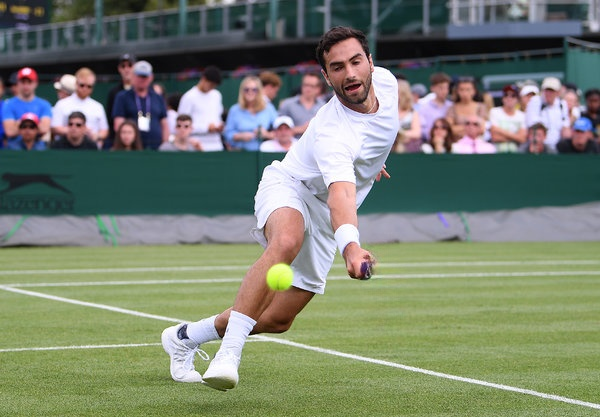
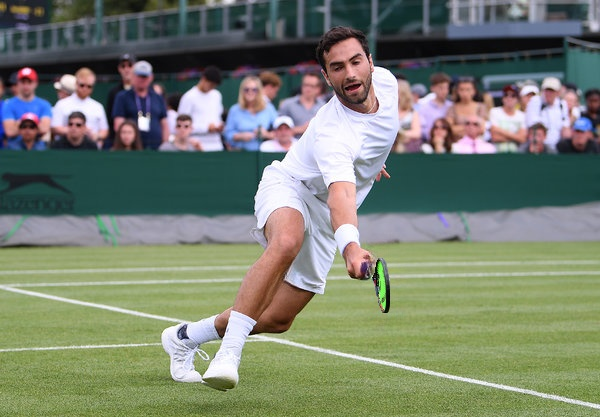
resize_fin

Changed region(s): [[0.6, 0.6235, 0.66, 0.7482], [0.42, 0.6235, 0.51, 0.717]]

diff --git a/resize.py b/resize.py
@@ -53,6 +53,39 @@ def get_obj(img,coords,args):
     rgba_image[:, :, 3] = masks[1]
 
     return rgba_image,masks
+def resize_and_mask_object(img, box, coords_bg,scale_factor, args):
+
+    x1,y1,x2,y2 = map(int,box.xyxy[0].cpu().numpy())
+    cropped_object = img[y1:y2, x1:x2]
+
+
+
+    cropped_masks = get_mask(img, coords_bg, args)
+
+
+    new_width = int(img.shape[1] * scale_factor)
+    new_height = int(img.shape[0] * scale_factor)
+    new_obj_w = int(cropped_object.shape[1] * scale_factor)
+    new_obj_h = int(cropped_object.shape[0] * scale_factor)
+    resized_img = cv2.resize(img, (new_width, new_height), interpolation=cv2.INTER_CUBIC)
+    resized_img_mask = cv2.resize(cropped_masks[1], (new_width, new_height), interpolation=cv2.INTER_NEAREST)
+
+
+    scaled_x1 = int(x1 * scale_factor)
+    scaled_y1 = int(y1 * scale_factor)
+    scaled_x2 = int(x2 * scale_factor)
+    scaled_y2 = int(y2 * scale_factor)
+
+
+    resized_object = resized_img[scaled_y1:scaled_y2, scaled_x1:scaled_x2]
+    resized_object_mask = resized_img_mask[scaled_y1:scaled_y2, scaled_x1:scaled_x2]
+
+
+    rgba_object = np.zeros((resized_object.shape[0], resized_object.shape[1], 4), dtype=np.uint8)
+    rgba_object[:, :, :3] = resized_object  # RGB通道
+    rgba_object[:, :, 3] = resized_object_mask  # Alpha通道
+
+    return rgba_object, resized_object_mask
 def resize_img(img,args):
 
     # Load the image
@@ -69,22 +102,16 @@ def resize_img(img,args):
             if label_name == "person":
                 continue
             x1,y1,x2,y2 = map(int,box.xyxy[0].cpu().numpy())
-            
-            scale_factor = np.random.choice([3,0.3])
-            cropped_object = img[y1:y2, x1:x2]
-            new_width = int(cropped_object.shape[1] * scale_factor)
-            new_height = int(cropped_object.shape[0] * scale_factor)
-            resized_object = cv2.resize(cropped_object, (new_width, new_height), interpolation=cv2.INTER_CUBIC)
+            scale_factor = np.random.choice([3,0.6])
             # 计算中心点cropped_object的中心点
             center_x_bg = int((x1+x2)/2)
             center_y_bg = int((y1+y2)/2)
-            center_x = int((resized_object.shape[0] // 2))
-            center_y = int((resized_object.shape[1]// 2))
-            coords = (center_x, center_y)
             coords_bg = (center_x_bg,center_y_bg)
-            rgba_object,masks_obj = get_obj(resized_object,coords,args)
+            # rgba_object,masks_obj = get_obj(resized_object,coords,args)
+            rgba_object,masks_obj = resize_and_mask_object(img,box,coords_bg,scale_factor,args)
 
-            cv2.imwrite("./resize_tmp/mask_obj.jpg",masks_obj[1])
+
+            cv2.imwrite("./resize_tmp/mask_obj.jpg",masks_obj)
             rgba_obj = Image.fromarray(rgba_object,mode= "RGBA")
             rgba_obj.save("./resize_tmp/rgba_obj.png")
             masks = get_mask(img,coords_bg,args)
@@ -95,14 +122,14 @@ def resize_img(img,args):
                 masks = [dilate_mask(mask, args.dilate_kernel_size) for mask in masks]
             img_inpainted = inpaint_img_with_lama(
             img, masks[1], args.lama_config, args.lama_ckpt, device=device)
-            # 将rgba_object粘贴到img_inpainted的指定位置
+
             img = img_inpainted
             cv2.imwrite("./resize_tmp/img_inpat.jpg",img)
             bg = Image.fromarray(img,mode="RGB")
             fg = Image.fromarray(rgba_object,mode="RGBA")
             pos = (x1, y1)
-            offset = ((pos[0]- coords_bg[0]) * scale_factor,(pos[1] - coords_bg[1]) * scale_factor)
-            new_pos = (int(coords_bg[0] - offset[0]),int(coords[1] - offset[1]))
+            offset = ((coords_bg[0] - pos[0]) * scale_factor,(coords_bg[1] - pos[1]) * scale_factor)
+            new_pos = (int(coords_bg[0] - offset[0]),int(coords_bg[1] - offset[1]))
 
             bg.paste(fg, new_pos, fg)
             img = np.array(bg)
